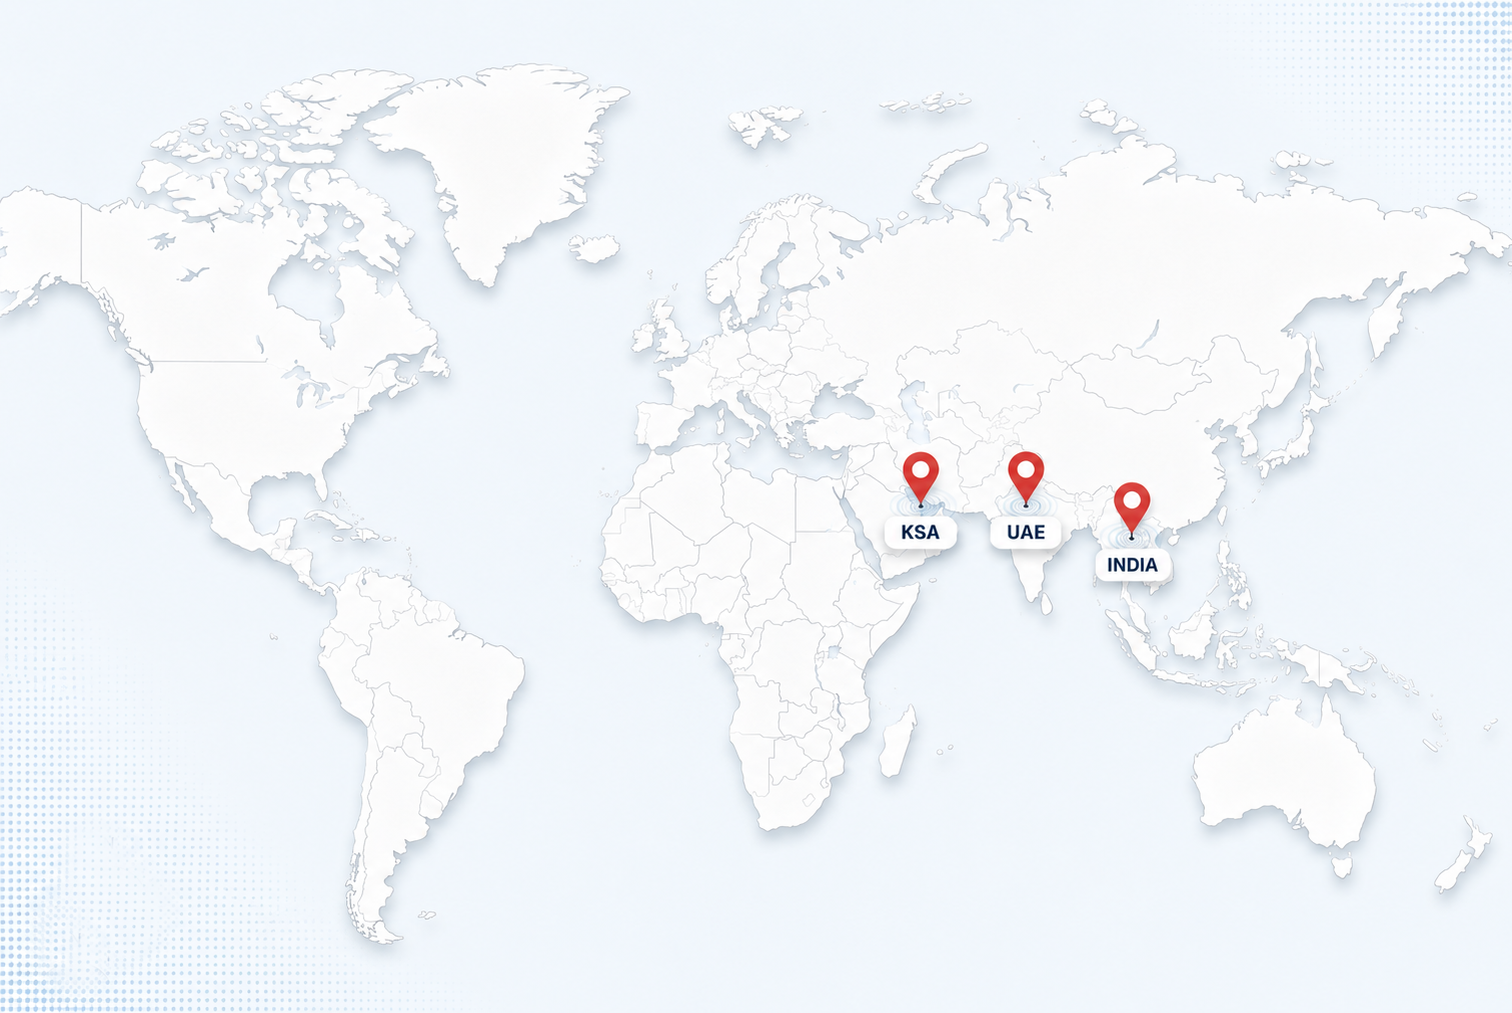
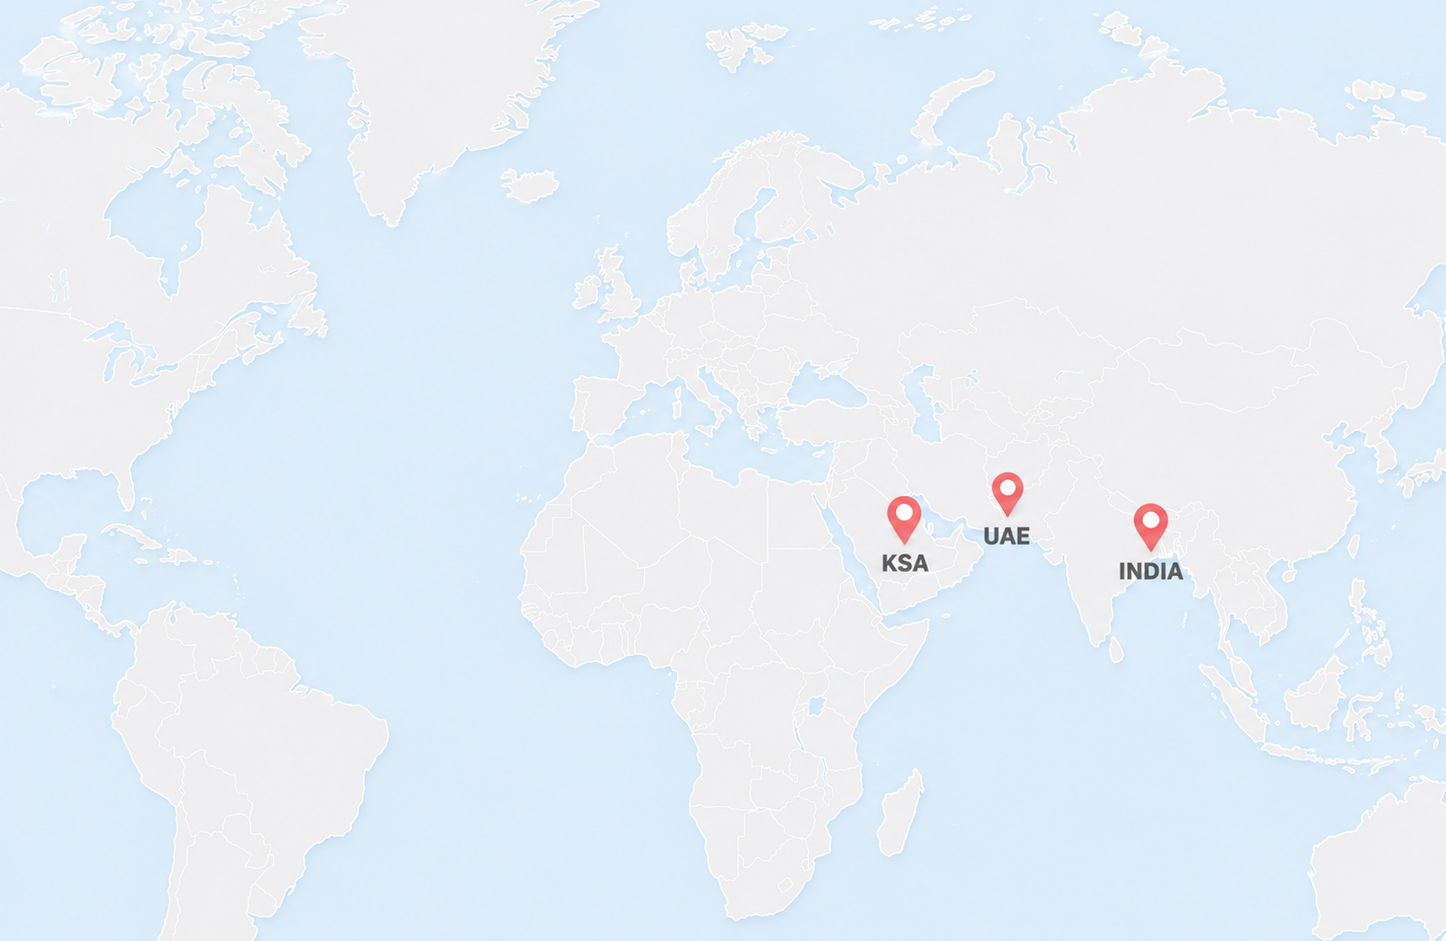
map updation

diff --git a/assets/css/main.css b/assets/css/main.css
@@ -1123,24 +1123,7 @@ span {
   color: var(--text);
 }
 
-.contact-form-items {
-  background-color: var(--white);
-  padding: 120px 40px;
-  margin-bottom: -350px;
-  position: relative;
-  z-index: 9;
-  box-shadow: 0px -10px 40px 0px rgba(0, 0, 0, 0.15);
-}
-@media (max-width: 1199px) {
-  .contact-form-items {
-    padding: 100px 40px;
-  }
-}
-@media (max-width: 991px) {
-  .contact-form-items {
-    padding: 80px 30px;
-  }
-}
+
 .contact-form-items .title {
   margin-bottom: 40px;
 }
@@ -1821,7 +1804,7 @@ span {
   height: 100%;
   content: "";
   z-index: -1;
-  background-color: var(--header);
+  background-color:#0a2845;
   opacity: 0.95;
 }
 .footer-section.style-radius {
@@ -2105,7 +2088,7 @@ span {
 }
 
 .header-top-wrapper-2 {
-  background-color: var(--theme);
+  background-color: #0a2845;
   padding: 15px 30px;
   display: flex;
   align-items: center;
@@ -2424,7 +2407,7 @@ span {
   height: 100%;
   width: 180px;
   content: "";
-  background-color: var(--theme);
+  background-color:#0a2845;
   z-index: -1;
 }
 @media (max-width: 1399px) {
@@ -2442,7 +2425,7 @@ span {
     margin-inline-end: 25px;
   }
   .header-2 .mega-menu-wrapper .header-main .main-menu ul li a {
-    font-size: 16px;
+    font-size: 14px;
   }
 }
 @media (max-width: 1899px) {
@@ -2508,7 +2491,7 @@ span {
 .header-3 {
   position: relative;
   z-index: 99;
-  background-color: var(--bg);
+  background-color:#0a2845;
   padding-top: 5px;
 }
 @media (max-width: 1600px) {
@@ -2573,7 +2556,7 @@ span {
   position: relative;
   list-style: none;
   display: inline-block;
-  margin-inline-end: 50px;
+  margin-inline-end: 40px;
 }
 .header-main .main-menu ul li:last-child {
   margin-inline-end: 0;
@@ -3013,14 +2996,14 @@ span {
 }
 .breadcrumb-wrapper .page-heading h1 {
   color: var(--white);
-  font-size: 74px;
+  font-size: 52px;
   position: relative;
   z-index: 9;
   text-transform: uppercase;
 }
 @media (max-width: 991px) {
   .breadcrumb-wrapper .page-heading h1 {
-    font-size: 60px;
+    font-size: 50px;
   }
 }
 @media (max-width: 575px) {
@@ -3068,7 +3051,7 @@ span {
 }
 .breadcrumb-wrapper .breadcrumb-wrapper-items .breadcrumb-image {
   position: relative;
-  height: 380px;
+  height: 280px;
   margin-bottom: -50px;
 }
 @media (max-width: 991px) {
@@ -4012,7 +3995,7 @@ span {
   width: 100%;
   height: 100%;
   content: "";
-  background-color: var(--bg);
+  background-color:#0a2845;
   height: 25%;
 }
 .hero-3 .hero-image {
@@ -5949,7 +5932,7 @@ input.main-search-input::placeholder {
 }
 
 .section-bg {
-  background-color: var(--bg);
+  background-color:#0a2845;
 }
 
 .section-bg-2 {
@@ -7325,7 +7308,7 @@ input.main-search-input::placeholder {
 
 .header-logo img,
 .header-logo-2 img {
-    max-height: 85px; /* Adjust as needed */
+    max-height: 80px; /* Adjust as needed */
     width: auto;
 }
 
@@ -7455,7 +7438,7 @@ input.main-search-input::placeholder {
     width: 100%;
     height: 100%;
     object-fit: cover;
-    opacity: 0.80; /* visibility */
+    opacity: 0.60; /* visibility */
     z-index: 1;
 }
 
@@ -7472,4 +7455,205 @@ input.main-search-input::placeholder {
 
 .breadcrumb-image > img {
     display: none;
+}
+
+.map-box {
+    height: 100%;
+    border-radius: 20px;
+    overflow: hidden;
+}
+
+
+/* ---------Heder hamburger--------*/
+
+.header-main .main-menu ul li a {
+    text-transform: uppercase !important;
+}
+
+@media (max-width: 991px) {
+    .header-right {
+        margin-left: 0 !important;
+        padding-left: 0 !important;
+    }
+
+    .search-item {
+        margin-left: 0 !important;
+    }
+
+    .header__hamburger {
+        transform: translateX(-15px);
+    }
+    
+}
+
+@media (max-width: 991px) {
+    .header-2 .mega-menu-wrapper .header-main {
+        gap: 0px;
+    }
+}
+
+
+@media (max-width: 767px) {
+    .clients-section .section-title h2 {
+        margin-bottom: 30px;
+    }
+}
+
+
+/* ---------Contact page --------*/
+
+.map-box {
+    height: 100%;
+}
+
+.map-box iframe {
+    width: 100%;
+    height: 620px;
+    border: 0;
+    border-radius: 20px;
+}
+
+@media (max-width: 991px) {
+    .contact-form-items {
+        padding: 25px;
+    }
+
+    .map-box {
+        margin-top: 30px;
+    }
+
+    .map-box iframe {
+        height: 350px;
+    }
+}
+
+
+.contact-info-section{
+    background:#f7f9fc;
+}
+
+
+.contact-desc{
+    max-width:600px;
+    margin:15px auto 40px;
+    color:#666;
+}
+
+.contact-card{
+
+    background:#fff;
+    padding:35px 30px;
+    border-radius:20px;
+    display:flex;
+    align-items:center;
+    gap:25px;
+
+    height:100%;
+    box-shadow:0 10px 35px rgba(0,0,0,.08);
+
+    transition:.4s ease;
+    border:1px solid transparent;
+}
+
+.contact-card:hover{
+
+    transform:translateY(-8px);
+    border-color:var(--theme);
+}
+
+.contact-icon{
+
+    width:75px;
+    height:75px;
+    min-width:75px;
+
+    background:var(--theme);
+    border-radius:50%;
+
+    display:flex;
+    align-items:center;
+    justify-content:center;
+}
+
+.contact-icon img{
+
+    width:35px;
+    filter:brightness(0) invert(1);
+
+}
+
+.contact-content h3{
+
+    font-size:22px;
+    margin-bottom:8px;
+
+}
+
+.contact-content p{
+
+    margin:0;
+    color:#777;
+    font-size:16px;
+
+}
+
+
+
+.contact-content a{
+
+    color:#777;
+
+}
+
+
+
+@media(max-width:575px){
+
+.contact-card{
+
+    flex-direction:column;
+    text-align:center;
+    padding:30px 20px;
+
+}
+
+}
+
+
+.contact-map-image{
+
+    overflow:hidden;
+    border-radius:25px;
+    background:#fff;
+    box-shadow:0 15px 40px rgba(0,0,0,.12);
+
+}
+
+
+.contact-map-image img{
+
+    width:100%;
+    height:450px;
+    object-fit:cover;
+    display:block;
+    border-radius:25px;
+   
+
+}
+
+
+@media(max-width:575px){
+
+.contact-map-image img{
+
+    height:280px;
+
+}
+
+}
+
+
+.footer-section{
+    background: #0A2845;
+    background-image: none !important;
 }